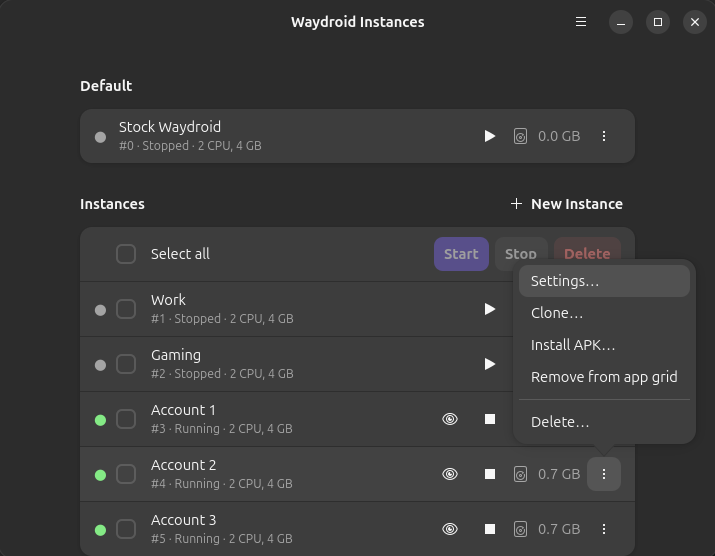
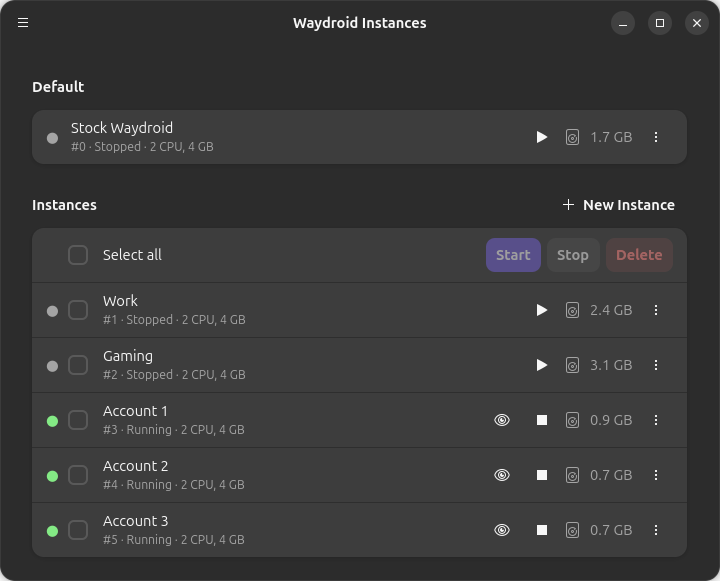
README: current manager screenshot

diff --git a/README.md b/README.md
@@ -59,7 +59,7 @@ before, you can switch to the `.deb` at any time; your instances are kept.
 
 ## Using the manager app
 
-![The manager: your normal Waydroid as #0 under Default, the other instances below, and an instance's ⋮ menu](docs/screenshots/manager.png)
+![The manager: your normal Waydroid as #0 under Default, the other instances below with their disk use, some running](docs/screenshots/manager.png)
 
 - **+ New Instance** creates an instance. Instances are numbered automatically: your normal
   Waydroid is **#0**, new ones get the next free number (#1, #2, …).
